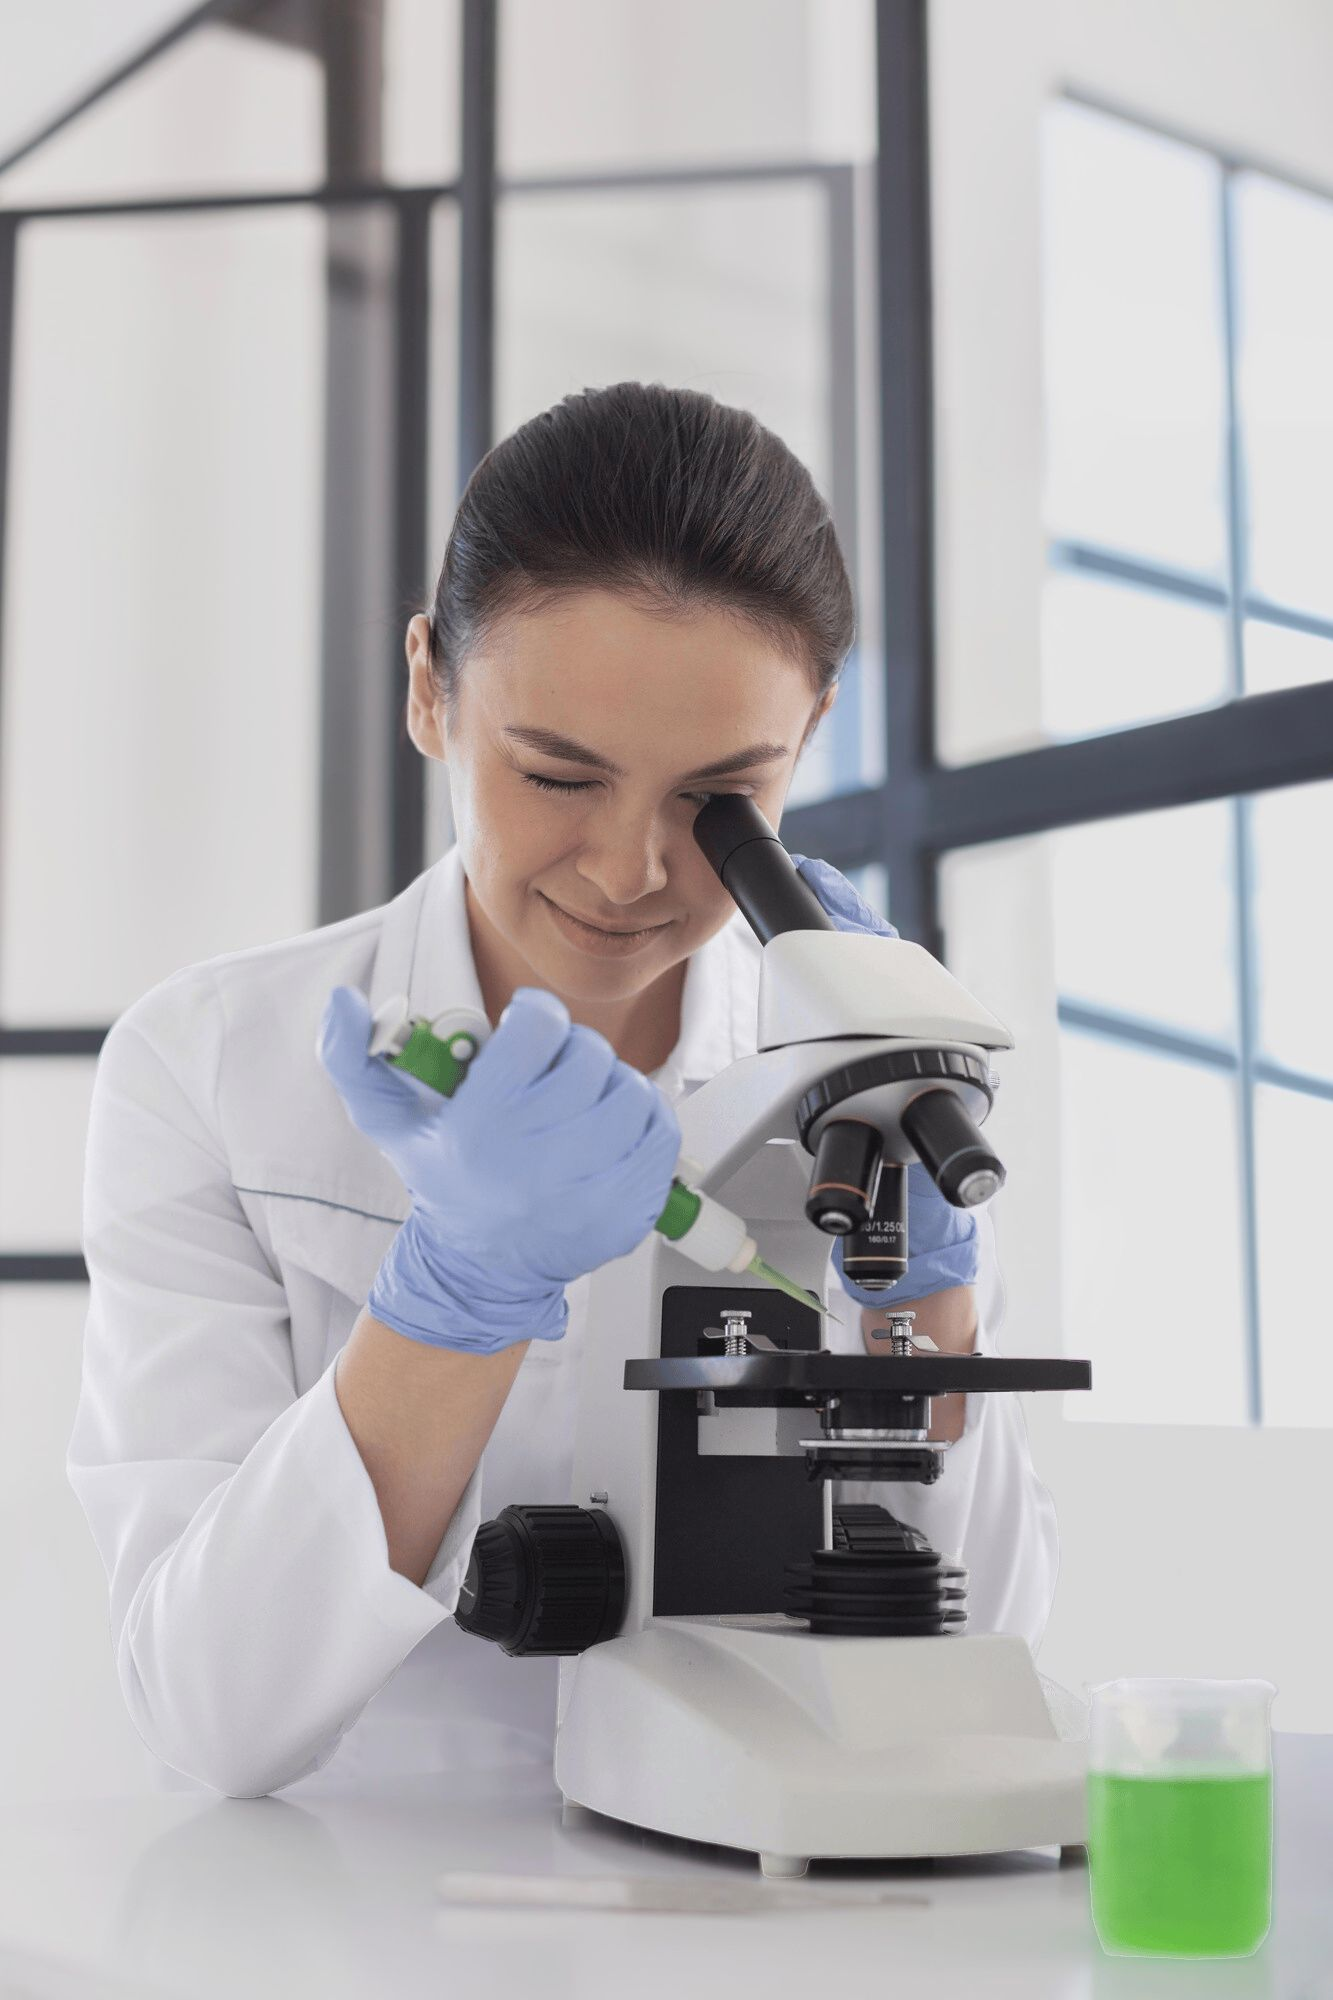
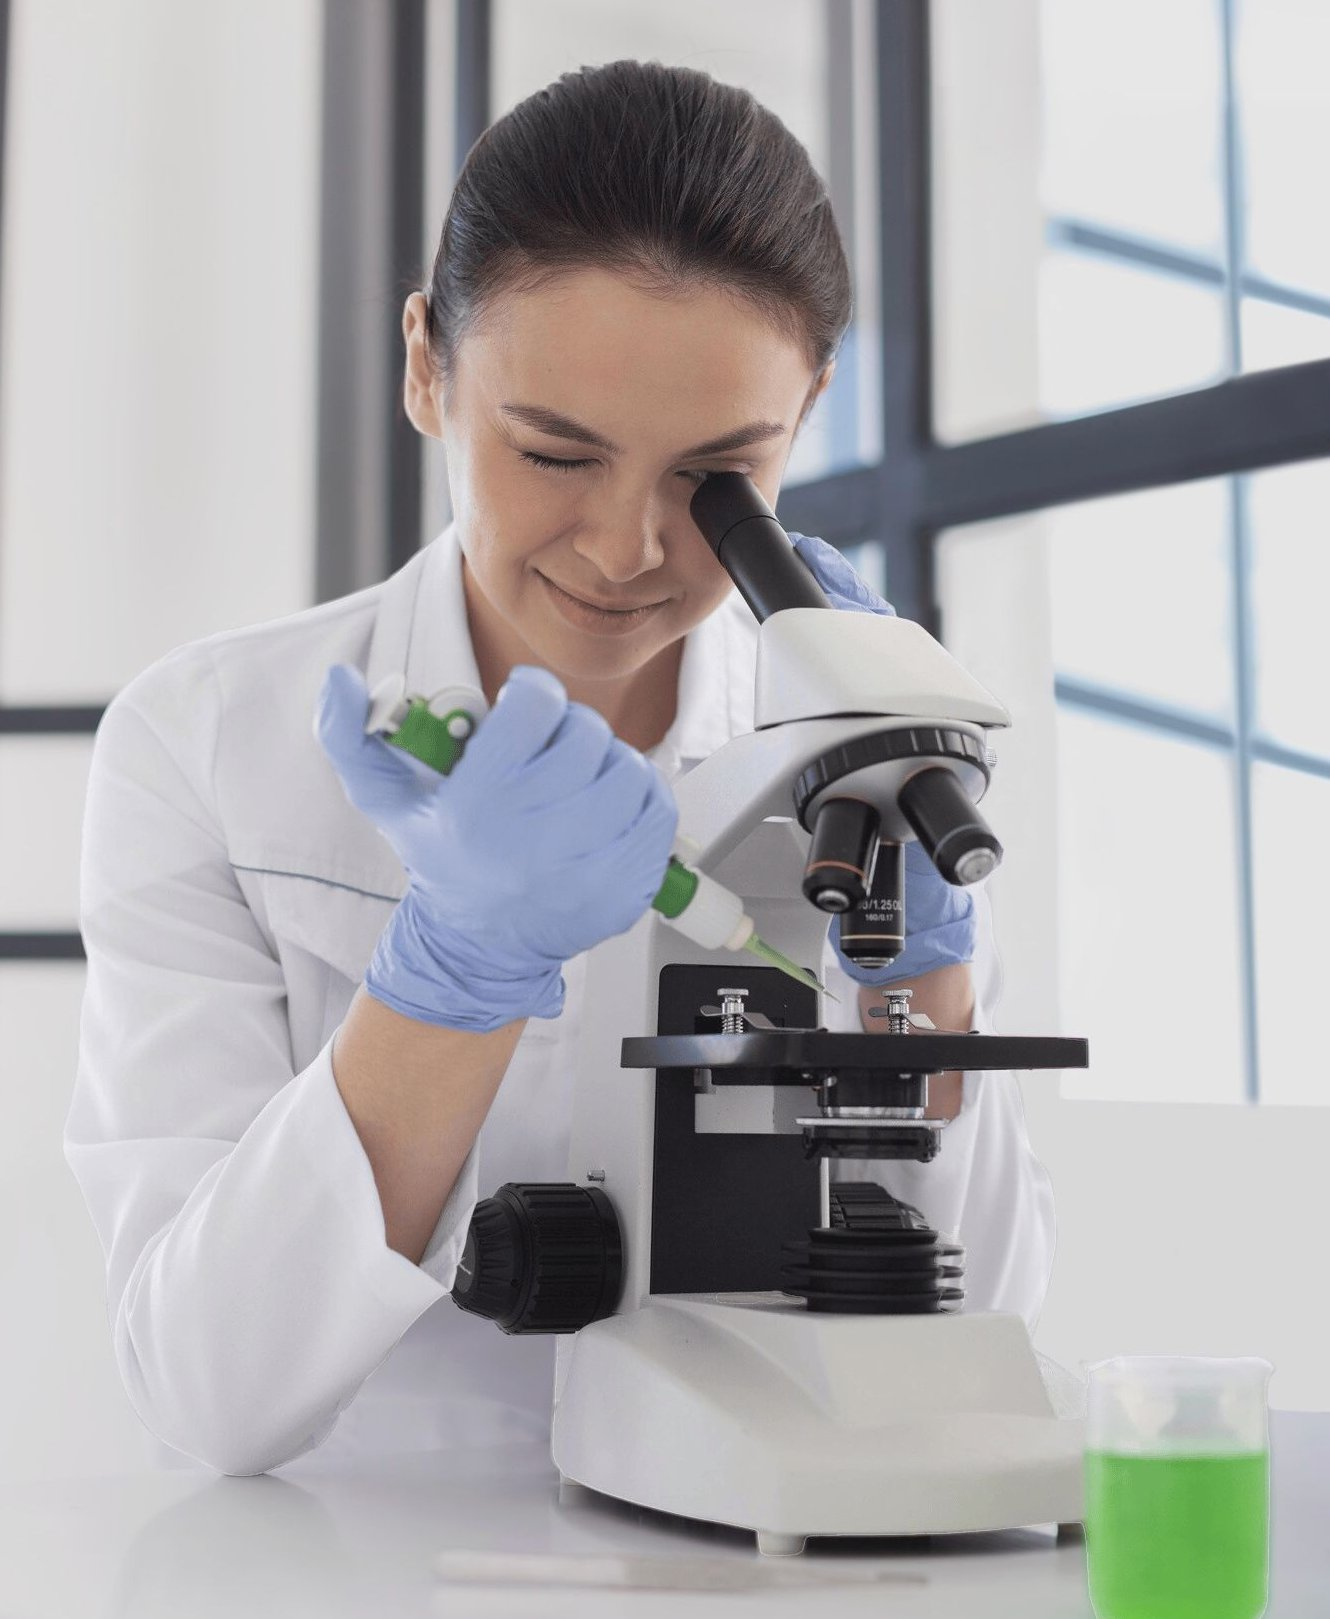
add file

diff --git a/website8/site.html b/website8/site.html
@@ -12,8 +12,8 @@
 </head>
 <body>
 
-      <div class="container  labtest">
-        <div class="row">
+      <div class="container ">
+        <div class="row  ">
             <div class="col-lg">
               
 <!-- social media -->
@@ -26,21 +26,25 @@
               <button type="button" class="btn btn-success">Make An Appointment</button>
 
               </div>
+            </div>
+        </div>
+      </div>
 
-             
-                           
+              <div class="labtest">
+             <!-- navbar -->
+             <div class="container">        
                 <nav class="navbar bg-light navbar-expand-lg mt-4 py-4 px-4">
-                    <div class="container-fluid">
-                      <a class="navbar-brand" href="#">Default</a>
+                  
+                      <a class="navbar-brand" >Default</a>
                       <ul class="nav justify-content-end">
                         <li class="nav-item">
-                          <a class="nav-link active" aria-current="page" href="#">ABOUT ME</a>
+                          <a class="nav-link disabled" aria-current="page">ABOUT ME</a>
                         </li>
                         <li class="nav-item">
-                          <a class="nav-link" href="#">PACKAGE</a>
+                          <a class="nav-link disabled" >PACKAGE</a>
                         </li>
                         <li class="nav-item">
-                          <a class="nav-link" href="#">DEPARMENTS</a>
+                          <a class="nav-link disabled" >DEPARMENTS</a>
                         </li>
                         <li class="nav-item">
                           <a class="nav-link disabled">BLOG</a>
@@ -55,12 +59,101 @@
                     </div>
                   </nav>
             
-            </div>
+           
         
-        </div>
+    
+
+
+<div class="container-fluid">
+  <div class="row">
+
+    <div class="col-lg intro">
+      <h1>Unlocking Vital
+        <br> Insights: Your Blood, Your Lab</h1>
+
+        <p>
+          Unlocking Vital Insights: Where Your Blood Holds the Key to Your <br>Health-Welcome to Your Trusted Laboratory</p>
+
+          <button class="pure-button button2">Learn More</button> 
+    </div>
+
+  </div>
+</div>
+</div>
+
+
+<!-- announcment -->
+<div class="container">        
+<div class="col-lg announcment">
+  <span><img src="img/2742787_announcement_business_marketing_seo_chart_icon.png" alt="" width="3%"></span>
+  
+  <p>News & Events
+  Stay Updated with CM Excoing News and Events Awal Explore the latest in health breakthroughs, special promotions, and community engage</p>
+</div>
+  </div>
+
+
+
+  <div class="container">
+    <div class="row">
+
+      <div class="col-lg">
+<img src="img/wepik-export-20231115091336JY2t.jpeg" alt="" width="80%">
       </div>
 
 
+
+      <div class="col-lg">
+      <p>Welcome to GMRL Labs</p>
+      <h2>Elevating Health Through <br> Precision Diagnostics: GMRL Laboratories</h2>
+      <p>
+        GMAL Laboratories, situated in the heart of Thinppunithura, is your trusted destination for brcomprehensive Health Check Up Packages at an affordable cost. Our commitment to excellence is showcased through our state-of-the-art, fully automated analyzers, which undergo daily verification against Biorad USA Quality Controls This stringent quality assurance entures that your diagnostic results are not only accurate but also reliable<p>
+
+        <p>Our dedicated professionals are here to guide you through every step of your health assessment, with a mission to provide the highest standard of care and convenience. At GMRL Laboratories, your well-being is our priority, and we're honored to be your trusted partner on your journey to a healthier, happier life.<p>
+
+          <button class="pure-button button3">Learn More</button> 
+      </div>
+
+
+    </div>
+  </div>
+
+
+
+  <div class="container">
+    <div class="row">
+      <div class="col-lg">
+        <section class="testimonials-container">
+
+          <div class="testimonials">
+              <div class="testimonial">
+                  <h3>"These treats are real tail-waggers"</h3>
+                  <p> My pug Sir Biscuit is obsessed with the Salmon Snackers! He does a little dance when he hears the
+                      Barkin'
+                      Baxter's truck coming. <span class="testimonal-author">Lily R.</span></p>
+              </div>
+              <div class="testimonial">
+                  <h3>"A bona-fido game-changer"</h3>
+                  <p>Baxters are at the top of the food chain! Maximus is a picky eater but he loves these treats. <span
+                          class="testimonal-author">Albert Z.</span>
+                  </p>
+              </div>
+              <div class="testimonial">
+                  <h3>"Treat time has never been so dog-gone amazing"</h3>
+                  <p> Our little Mabel gives them two paws up and a whole lot of slobbery kisses. <span
+                          class="testimonal-author">Jennifer T.</span> </p>
+              </div>
+          </div>
+      
+      </section>
+      </div>
+    </div>
+  </div>
+
+
+
+
+      
 
     <script type="text/javascript"src="../boot/bootstrap.min.js"></script>
     <script src="https://cdn.jsdelivr.net/npm/@popperjs/core@2.10.2/dist/umd/popper.min.js" integrity="sha384-7+zCNj/IqJ95wo16oMtfsKbZ9ccEh31eOz1HGyDuCQ6wgnyJNSYdrPa03rtR1zdB" crossorigin="anonymous"></script>

diff --git a/website8/site.css b/website8/site.css
@@ -1,3 +1,130 @@
-labtest {
-    background-image: url("img/wepik-export-20231115091336JY2t.jpeg");
+.labtest{
+    background-image: url("img/medium-shot-scientist-working-with-microscope.jpg");
+        width: 100%;
+        height:100vh; 
+        /* background-position: right; */
+        
    }
+/* 
+   .intro{
+padding-bottom: 50px;
+   } */
+
+   .button2 { 
+    background-color:blue; 
+    color: #ffffff; 
+    border-radius: 15px; 
+    width: 140px;
+    height: 40px;
+} 
+
+.announcmen{
+  color: blue;
+}
+
+.button3 { 
+    background-color:blue; 
+    color: #ffffff; 
+    border-radius: 15px; 
+    width: 140px;
+    height: 40px;
+} 
+
+
+
+
+@import url('https://fonts.googleapis.com/css2?family=Bree+Serif&family=Quicksand&display=swap');
+
+* {
+	margin: 0;
+	padding: 0;
+}
+/* 
+body {
+	box-sizing: border-box;
+	font-family: Poppins, sans-serif;
+	display: flex;
+	justify-content: center;
+	align-items: center;
+	height: 100vh;
+} */
+
+h2 {
+	font-family: 'Bree Serif', serif;
+	padding: 0 1rem;
+	font-size: 2rem;
+	margin-bottom: 1.5rem;
+}
+
+.testimonials-container {
+	padding: 0 40px;
+	margin: 30px 0 50px;
+	position: relative;
+	background-color: white;
+	display: flex;
+	flex-direction: column;
+}
+
+.testimonials {
+	display: flex;
+	justify-content: space-evenly;
+	align-items: space-evenly;
+}
+
+.testimonials-container h2 {
+	padding: 10px 10px 15px;
+	text-align: center;
+	width: 100%;
+	margin: 0 auto 30px;
+}
+
+.testimonial {
+	width: 25%;
+	border-radius: 20px;
+	background: linear-gradient(to right bottom, #fabf8f60, #ffc0a660, #ffc4bc60, #ffcbcf60, #f7d3dd60);
+	padding: 20px;
+	position: relative;
+	margin-bottom: 20px;
+}
+
+.testimonial:after {
+  content: "";
+  display: block; /* reduce the damage in FF3.0 */
+  position: absolute;
+  bottom: -15px;
+  right: 50px;
+  width: 0;
+  border-width: 15px 20px 0;
+  border-style: solid;
+  border-color: #F7D3DD60 transparent;
+}
+
+.testimonial h3 {
+	margin-bottom: 10px;
+}
+
+.testimonial p {
+	font-size: 1.2rem;
+	margin-bottom: 0.5rem;
+}
+
+.testimonal-author {
+	font-size: 1rem;
+	position: absolute;
+	bottom: -40px;
+	right: 0;
+}
+
+@media all AND (max-width: 700px) {
+	
+	.testimonials {
+    flex-direction: column;
+		align-items: center;
+	}
+
+	.testimonial {
+		width: 90%;
+		margin-bottom: 60px;
+	}
+
+}
